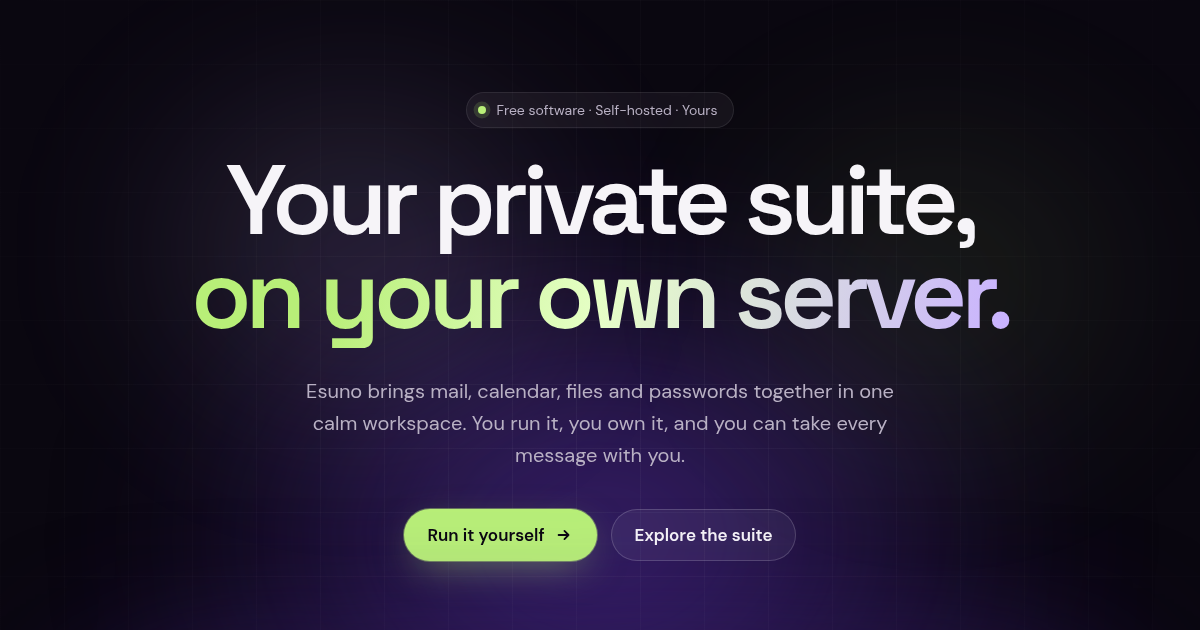
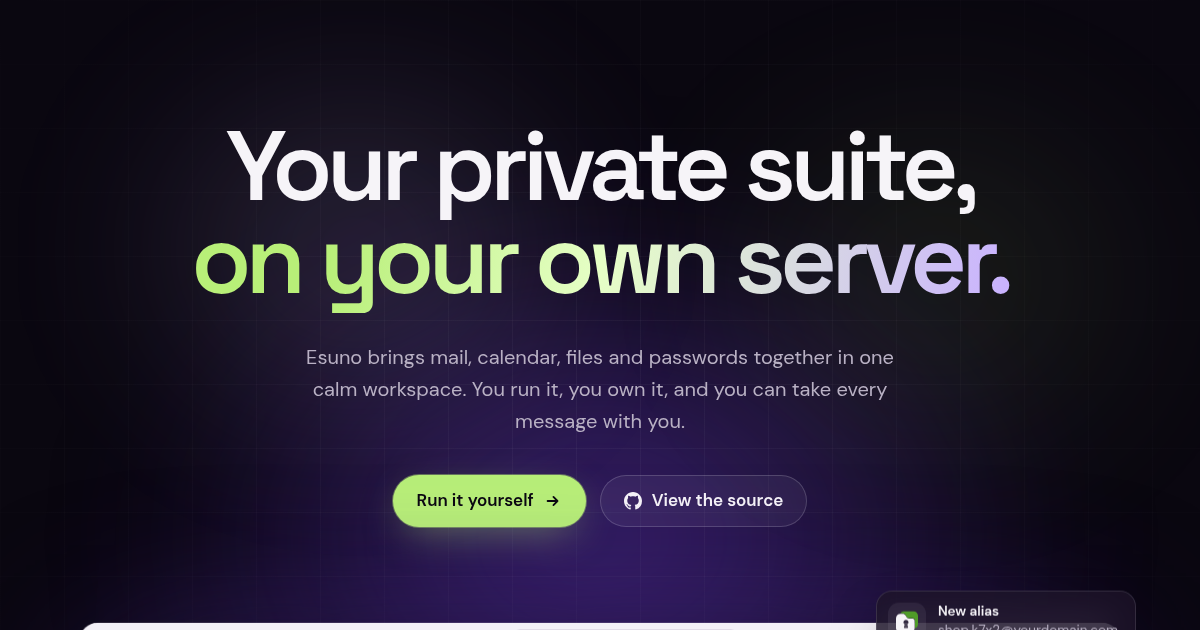
feat(landing): link the public source and drop the hero pill
The hero no longer opens with a tagline pill. The now-public repository is
linked from the navigation, the hero, the free-software principle, the
self-host section (production runbook) and the footer. The social preview
image is refreshed to match.

Changed region(s): [[0.1542, 0.1508, 0.8633, 0.6333], [0.2467, 0.6635, 0.74, 0.9349], [0.0617, 0.9651, 0.9558, 1.0]]

diff --git a/apps/landing/index.html b/apps/landing/index.html
@@ -50,6 +50,12 @@
           stroke-linejoin="round"
         />
       </symbol>
+      <symbol id="github" viewBox="0 0 16 16">
+        <path
+          fill="currentColor"
+          d="M8 0C3.58 0 0 3.58 0 8c0 3.54 2.29 6.53 5.47 7.59.4.07.55-.17.55-.38 0-.19-.01-.82-.01-1.49-2.01.37-2.53-.49-2.69-.94-.09-.23-.48-.94-.82-1.13-.28-.15-.68-.52-.01-.53.63-.01 1.08.58 1.23.82.72 1.21 1.87.87 2.33.66.07-.52.28-.87.51-1.07-1.78-.2-3.64-.89-3.64-3.95 0-.87.31-1.59.82-2.15-.08-.2-.36-1.02.08-2.12 0 0 .67-.21 2.2.82.64-.18 1.32-.27 2-.27.68 0 1.36.09 2 .27 1.53-1.04 2.2-.82 2.2-.82.44 1.1.16 1.92.08 2.12.51.56.82 1.27.82 2.15 0 3.07-1.87 3.75-3.65 3.95.29.25.54.73.54 1.48 0 1.07-.01 1.93-.01 2.2 0 .21.15.46.55.38A8.01 8.01 0 0 0 16 8c0-4.42-3.58-8-8-8Z"
+        />
+      </symbol>
       <symbol id="arrow" viewBox="0 0 20 20">
         <path
           d="M4 10h11m-4.5-4.5L15 10l-4.5 4.5"
@@ -79,6 +85,14 @@
           <a href="#self-host">Self-host</a>
           <a href="#scale">Scale</a>
         </nav>
+        <a
+          class="nav__source"
+          href="https://github.com/nicodlz/opensuite"
+          aria-label="Esuno source code on GitHub"
+        >
+          <svg aria-hidden="true"><use href="#github" /></svg>
+          <span>GitHub</span>
+        </a>
         <a class="button button--small" href="#self-host">Run Esuno</a>
       </div>
     </header>
@@ -93,29 +107,31 @@
         </div>
 
         <div class="hero__copy">
-          <p class="eyebrow rise rise--1">
-            <span class="eyebrow__dot" aria-hidden="true"></span>
-            Free software · Self-hosted · Yours
-          </p>
-          <h1 class="hero__title rise rise--2">
+          <h1 class="hero__title rise rise--1">
             Your private suite,
             <em>on your own server.</em>
           </h1>
-          <p class="hero__lede rise rise--3">
+          <p class="hero__lede rise rise--2">
             Esuno brings mail, calendar, files and passwords together in one
             calm workspace. You run it, you own it, and you can take every
             message with you.
           </p>
-          <div class="hero__actions rise rise--4">
+          <div class="hero__actions rise rise--3">
             <a class="button" href="#self-host">
               Run it yourself
               <svg aria-hidden="true"><use href="#arrow" /></svg>
             </a>
-            <a class="button button--ghost" href="#suite">Explore the suite</a>
+            <a
+              class="button button--ghost"
+              href="https://github.com/nicodlz/opensuite"
+            >
+              <svg aria-hidden="true"><use href="#github" /></svg>
+              View the source
+            </a>
           </div>
         </div>
 
-        <div class="stage rise rise--5" data-stage>
+        <div class="stage rise rise--4" data-stage>
           <div class="window" data-tilt>
             <div class="window__bar" aria-hidden="true">
               <span></span><span></span><span></span>
@@ -377,7 +393,10 @@
             <span class="principles__n">06</span>
             <h3>Free software</h3>
             <p>
-              Licensed AGPL-3.0-or-later. Read it, change it, run it, share it.
+              Licensed AGPL-3.0-or-later.
+              <a class="link" href="https://github.com/nicodlz/opensuite"
+                >Read the source</a
+              >, change it, run it, share it.
             </p>
           </li>
         </ul>
@@ -446,6 +465,13 @@
                 account for sending and receiving
               </li>
             </ul>
+            <a
+              class="link link--arrow"
+              href="https://github.com/nicodlz/opensuite/blob/main/docs/deployment/production.md"
+            >
+              Read the production runbook
+              <svg aria-hidden="true"><use href="#arrow" /></svg>
+            </a>
           </header>
           <figure class="terminal" data-reveal>
             <div class="terminal__bar" aria-hidden="true">
@@ -538,6 +564,10 @@
         <span class="brand__word">esuno</span>
       </a>
       <p>Free software under AGPL-3.0-or-later.</p>
+      <a class="footer__source" href="https://github.com/nicodlz/opensuite">
+        <svg aria-hidden="true"><use href="#github" /></svg>
+        Source on GitHub
+      </a>
       <p>© 2026 Esuno</p>
     </footer>
   </body>

diff --git a/apps/landing/src/landing.css b/apps/landing/src/landing.css
@@ -172,6 +172,33 @@ img {
   font-size: 15px;
 }
 
+.link {
+  color: var(--green);
+  text-decoration: underline;
+  text-decoration-color: rgba(184, 239, 120, 0.4);
+  text-underline-offset: 3px;
+  transition: text-decoration-color 0.2s;
+}
+.link:hover {
+  text-decoration-color: currentColor;
+}
+.link--arrow {
+  display: inline-flex;
+  align-items: center;
+  gap: 8px;
+  margin-top: 30px;
+  font-weight: 600;
+  text-decoration: none;
+}
+.link--arrow svg {
+  width: 18px;
+  height: 18px;
+  transition: translate 0.25s var(--ease);
+}
+.link--arrow:hover svg {
+  translate: 3px 0;
+}
+
 /* Navigation */
 
 .nav {
@@ -210,12 +237,31 @@ img {
 .nav__links a:hover {
   color: var(--ivory);
 }
+.nav__source {
+  display: inline-flex;
+  align-items: center;
+  gap: 8px;
+  margin-left: -8px;
+  color: var(--soft);
+  font-size: 15px;
+  transition: color 0.2s;
+}
+.nav__source:hover {
+  color: var(--ivory);
+}
+.nav__source svg {
+  width: 18px;
+  height: 18px;
+}
 @media (max-width: 860px) {
   .nav__links {
     display: none;
   }
-  .nav .button {
+  .nav__source {
     margin-left: auto;
+  }
+  .nav__source span {
+    display: none;
   }
 }
 
@@ -297,32 +343,7 @@ img {
   margin: 0 auto;
   text-align: center;
 }
-.eyebrow {
-  display: inline-flex;
-  align-items: center;
-  gap: 10px;
-  padding: 7px 16px 7px 12px;
-  border-radius: 999px;
-  background: rgba(246, 244, 248, 0.05);
-  box-shadow: inset 0 0 0 1px var(--card-line);
-  color: var(--soft);
-  font-size: 14px;
-}
-.eyebrow__dot {
-  width: 8px;
-  height: 8px;
-  border-radius: 50%;
-  background: var(--green);
-  box-shadow: 0 0 0 4px rgba(184, 239, 120, 0.18);
-  animation: pulse 2.6s ease-in-out infinite;
-}
-@keyframes pulse {
-  50% {
-    box-shadow: 0 0 0 7px rgba(184, 239, 120, 0);
-  }
-}
 .hero__title {
-  margin-top: 26px;
   font-size: clamp(46px, 8.2vw, 104px);
   font-weight: 600;
   letter-spacing: -0.06em;
@@ -1452,6 +1473,19 @@ img {
 .footer .brand {
   margin-right: auto;
 }
+.footer__source {
+  display: inline-flex;
+  align-items: center;
+  gap: 8px;
+  transition: color 0.2s;
+}
+.footer__source:hover {
+  color: var(--ivory);
+}
+.footer__source svg {
+  width: 16px;
+  height: 16px;
+}
 .footer .brand__mark {
   width: 24px;
   height: 23px;
@@ -1521,10 +1555,7 @@ img {
   animation-delay: 0.16s;
 }
 .rise--4 {
-  animation-delay: 0.24s;
-}
-.rise--5 {
-  animation-delay: 0.36s;
+  animation-delay: 0.28s;
   animation-duration: 1.4s;
 }
 @keyframes rise {
